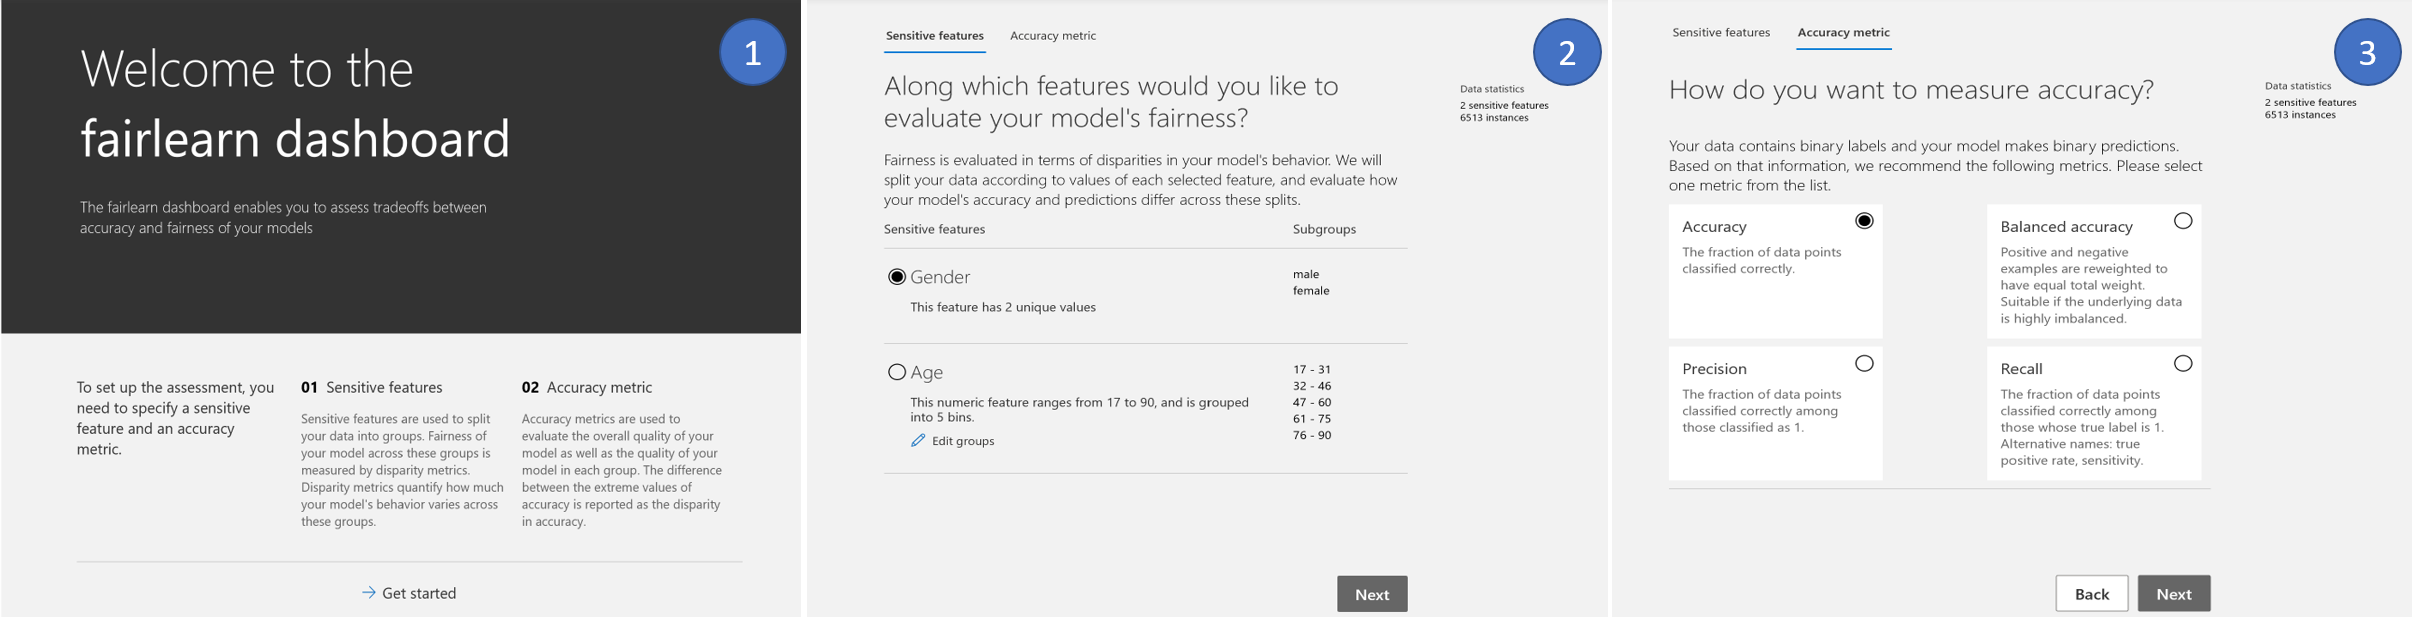
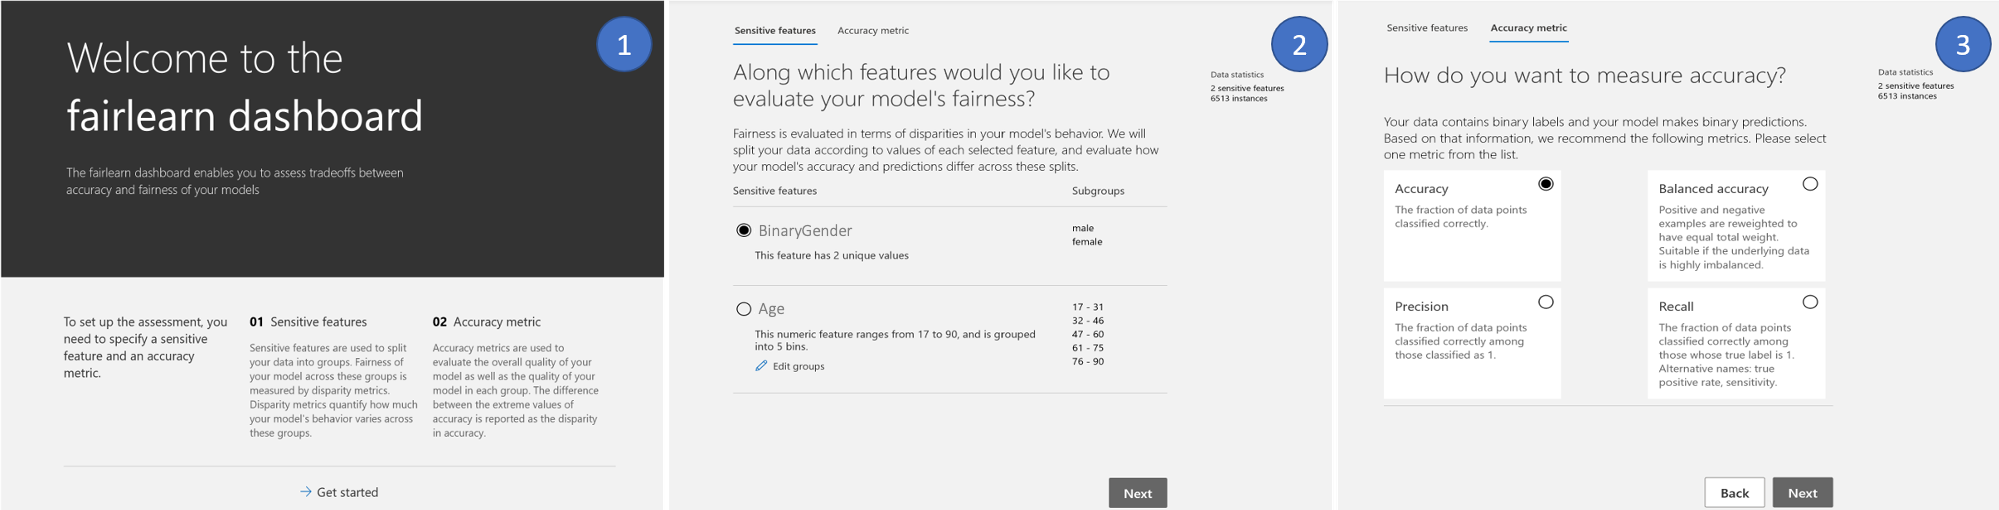
change gender to binarygender

diff --git a/README.md b/README.md
@@ -71,21 +71,21 @@ To assess a single model's fairness and accuracy, the dashboard widget can be la
 ```python
 from fairlearn.widget import FairlearnDashboard
 
-# A_test containts your sensitive features (e.g., Age, Gender)
+# A_test containts your sensitive features (e.g., age, binary gender)
 # sensitive_feature_names containts your sensitive feature names
 # y_true contains ground truth labels
 # y_pred contains prediction labels
 
 FairlearnDashboard(sensitive_features=A_test,
-                   sensitive_feature_names=['Gender', 'Age'],
+                   sensitive_feature_names=['BinaryGender', 'Age'],
                    y_true=Y_test.tolist(),
                    y_pred=[y_pred.tolist()])
 ```
 
 
-After the launch, the widget walks the user through the assessment set-up, where the user is asked to select (1) the sensitive feature of interest (e.g., gender or age), and (2) the accuracy metric (e.g., model precision) along which to evaluate the overall model performance as well as any disparities across groups. These selections are then used to obtain the visualization of the model's impact on the subgroups (e.g., model precision for females and model precision for males).
+After the launch, the widget walks the user through the assessment set-up, where the user is asked to select (1) the sensitive feature of interest (e.g., binary gender or age), and (2) the accuracy metric (e.g., model precision) along which to evaluate the overall model performance as well as any disparities across groups. These selections are then used to obtain the visualization of the model's impact on the subgroups (e.g., model precision for females and model precision for males).
 
-The following figures illustrate the set-up steps, where _gender_ is selected as a sensitive feature and _accuracy rate_ is selected as the accuracy metric.
+The following figures illustrate the set-up steps, where _binary gender_ is selected as a sensitive feature and _accuracy rate_ is selected as the accuracy metric.
 
 
 
@@ -108,7 +108,7 @@ After the set-up, the dashboard presents the model assessment in two panels:
 
 The dashboard also enables comparison of multiple models, such as the models produced by different learning algorithms and different mitigation approaches, including `fairlearn.reductions.GridSearch`, `fairlearn.reductions.ExponentiatedGradient` and `fairlearn.postprocessing.ThresholdOptimizer`.
 
-As before, the user is first asked to select the sensitive feature and the accuracy metric. The _model comparison_ view then depicts the accuracy and disparity of all the provided models in a scatter plot. This allows the user to examine trade-offs between accuracy and fairness. Each of the dots can be clicked to open the assessment of the corresponding model. The figure below shows the model comparison view with `gender` selected as a sensitive feature and `accuracy rate` selected as the accuracy metric.
+As before, the user is first asked to select the sensitive feature and the accuracy metric. The _model comparison_ view then depicts the accuracy and disparity of all the provided models in a scatter plot. This allows the user to examine trade-offs between accuracy and fairness. Each of the dots can be clicked to open the assessment of the corresponding model. The figure below shows the model comparison view with `binary gender` selected as a sensitive feature and `accuracy rate` selected as the accuracy metric.
 
 
 
